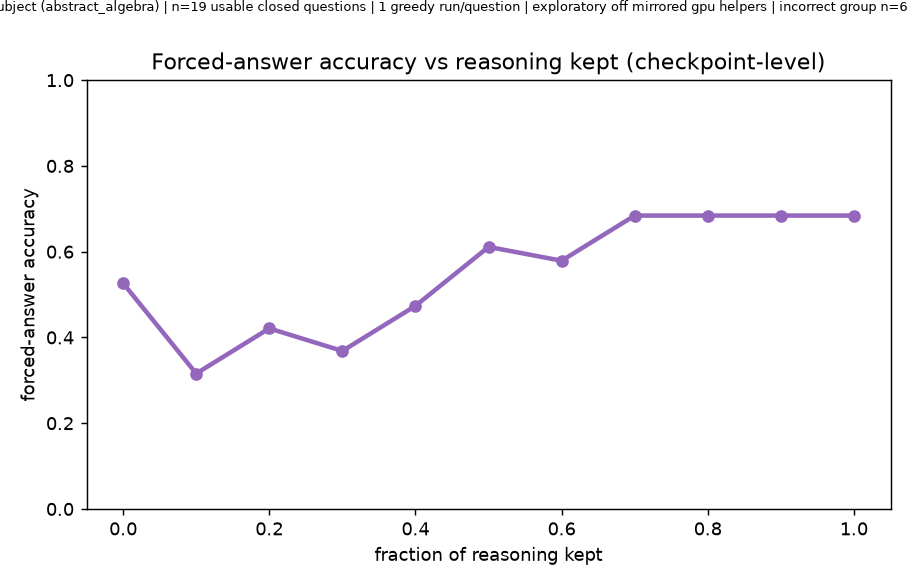
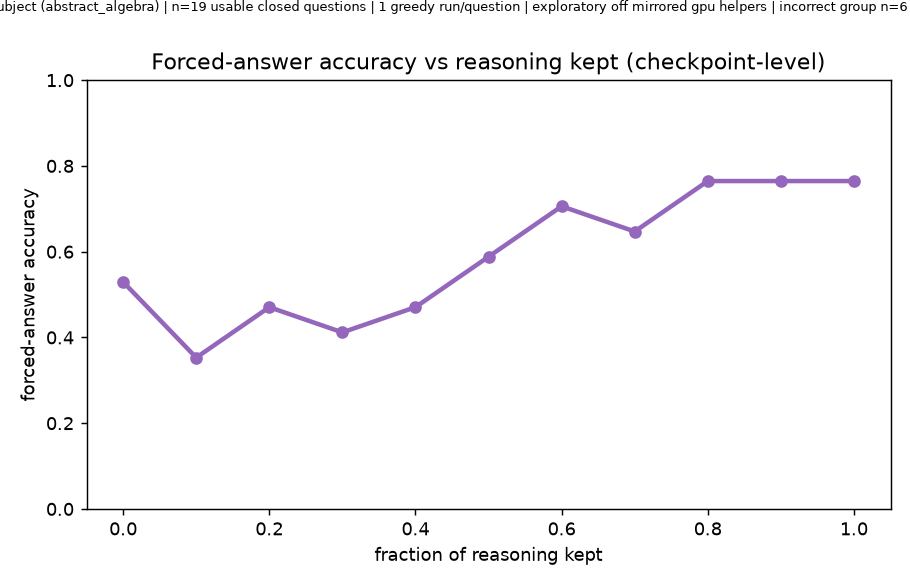
Regenerate analysis outputs under per-experiment dirs; add jobs/analyze.sh
Verification CPU job (10130512) reran both analysis scripts against the
moved results: outputs land in analysis/20q/ and analysis/200q/ with
suffix-free names, findings regenerate with identical numbers and
corrected internal file references. 200q figures/tables reproduced
byte-identical; 20q figures/CSVs refreshed from the same input JSONL.
jobs/analyze.sh makes the analysis step a proper task/job pair.

Changed region(s): [[0.4615, 0.2769, 0.9538, 0.5231], [0.1538, 0.5231, 0.4615, 0.6462], [0.1231, 0.4923, 0.1538, 0.5231]]

diff --git a/analysis/20q/FINDINGS.md b/analysis/20q/FINDINGS.md
@@ -13,7 +13,7 @@
 - 220 rows = 20 questions × 11 deciles. Closed cohort = **19 questions** (209 rows).
 - **qid14** (unclosed, `think_closed=False`) is held out and never averaged in.
 - Question-level groups use **final-checkpoint (frac=1.0) correctness** (`forced_letter==gold`),
-  not `natural_pred==gold`: **13 correct / 6 incorrect**.
+  not `natural_pred==gold`: **13 correct / 4 incorrect**.
 
 ## 1. Whole-cohort trajectories (basic)
 As more reasoning is spliced in, the forced answer's letter-entropy collapses and verbalized
@@ -21,25 +21,25 @@ confidence drifts up:
 
 | | frac 0.0 (no reasoning) | frac 1.0 (full chain) |
 |---|---|---|
-| mean answer-letter entropy (nats) | 1.129 | 0.038 |
-| mean verbalized confidence | 88.2 | 93.9 |
-| forced-answer accuracy | 0.53 | 0.68 |
+| mean answer-letter entropy (nats) | 1.142 | 0.054 |
+| mean verbalized confidence | 88.8 | 95.6 |
+| forced-answer accuracy | 0.53 | 0.76 |
 
 See `fig_entropy_vs_frac.png`, `fig_confidence_vs_frac.png`, `fig_accuracy_vs_frac.png`.
 
 **Two wrinkles, both honest gaps not bugs:**
-- Accuracy is **non-monotonic**: it dips to **0.32 at frac 0.1** before
-  recovering to 0.68 — a *little* reasoning underperforms *none* here. Intriguing (echoes
+- Accuracy is **non-monotonic**: it dips to **0.35 at frac 0.1** before
+  recovering to 0.76 — a *little* reasoning underperforms *none* here. Intriguing (echoes
   "partial chain-of-thought can hurt") but well within n=19 noise; flagged, not claimed.
-- **1 checkpoint** (qid15 @ frac 0.5) produced no clean answer token, so its
+- **0 checkpoint** (qid15 @ frac 0.5) produced no clean answer token, so its
   entropy is left as a visible `NaN` rather than guessed; that one cell's mean is over 18, not 19.
 
 ## 2. HEADLINE — convergence *timing*, not entropy *level*
 Splitting by final correctness, the correct group's entropy collapses **earlier**. The gap
 (incorrect − correct mean entropy) **opens mid-chain and vanishes at the endpoint**:
 
-- gap peaks at **frac 0.8** (**0.502 nats**),
-- endpoint gap (frac 1.0) = **-0.010 nats** (H_correct=0.041, H_incorrect=0.031) — effectively converged.
+- gap peaks at **frac 0.8** (**0.676 nats**),
+- endpoint gap (frac 1.0) = **-0.045 nats** (H_correct=0.064, H_incorrect=0.019) — effectively converged.
 
 **This is not "lower entropy ⇒ correct."** At the endpoint both groups are equally (near-zero)
 entropy; the signal is *how soon* they get there. See `fig_entropy_by_correctness_frac.png`
@@ -52,14 +52,14 @@ not hold** — the groups are length-balanced:
 
 | group | mean n_think | median n_think |
 |---|---|---|
-| correct (n=13) | 1572 | 1595 |
-| incorrect (n=6) | 1595 | 1228 |
+| correct (n=13) | 1613 | 1424 |
+| incorrect (n=4) | 1250 | 887 |
 
 Means are within ~1.5%, and the **median runs the *opposite* way** (correct chains are if
 anything *longer*). So there is little length confound to begin with. The decisive check is
 re-plotting entropy against absolute `k_keep` (`fig_entropy_by_correctness_abs.png`):
 
-> **survives: correct group shows lower mean entropy in 8/8 overlapping absolute-position bins.**
+> **survives: correct group shows lower mean entropy in 7/7 overlapping absolute-position bins.**
 
 Since the separation holds at *matched absolute token positions*, the earlier-convergence effect
 in §2 is **not** a chain-length artifact. (Caveat: the correct group has few points in the
@@ -68,15 +68,15 @@ highest-k bins — short-and-medium chains dominate — so the very-high-k tail 
 ## 4. Answer lock-in / flips
 Earliest fraction after which the forced letter equals its final value and never changes again:
 
-- mean commit fraction: **correct 0.32** vs **incorrect 0.45**
-- mean answer flips along the chain: **correct 2.15** vs **incorrect 2.67**
+- mean commit fraction: **correct 0.35** vs **incorrect 0.68**
+- mean answer flips along the chain: **correct 1.46** vs **incorrect 2.75**
 
 (Consistent direction with §2 if correct questions commit earlier / flip less.) See
 `per_question_summary.csv`.
 
 ## 5. Calibration of the two uncertainty signals
 Token entropy vs verbalized confidence across all closed checkpoints:
-**Pearson r = -0.381, Spearman ρ = -0.305** (negative = the two signals agree:
+**Pearson r = -0.521, Spearman ρ = -0.476** (negative = the two signals agree:
 higher stated confidence ↔ lower entropy). See `fig_calibration.png`.
 
 ## Held-out: qid14, and the qid15 gap (kept visible, never silently dropped)
@@ -91,4 +91,4 @@ higher stated confidence ↔ lower entropy). See `fig_calibration.png`.
   symbol, so qid15's flip tally is mildly inflated.
 
 ---
-*Generated by `analysis/analyze_checkpoints.py` from `results/checkpoints_20q.jsonl`.*
+*Generated by `analysis/analyze_checkpoints.py` from `results/20q/checkpoints.jsonl`.*

diff --git a/analysis/200q/FINDINGS.md b/analysis/200q/FINDINGS.md
@@ -6,12 +6,12 @@
 - **closed & answered: 150** (109 correct / 41 incorrect, acc=0.73)
 - truncated at 16k cap: 26 (runaway chains, forensics below)
 - skipped, model wrote NO reasoning (n_think=2): 24 — all long-passage
-  humanities/social subjects; see `tables/skipped_no_reasoning_200q.csv`
+  humanities/social subjects; see `tables/skipped_no_reasoning.csv`
 
 ## 1. Calibration (GK bullet 1+2 anchor)
 Stated confidence ~90 everywhere; actual accuracy 0.73. **ECE=0.18.**
-See `fig200q_calibration_curve.png`; the per-bin table is
-`tables/calibration_bins_200q.csv`.
+See `fig_calibration_curve.png`; the per-bin table is
+`tables/calibration_bins.csv`.
 
 ## 2. Which signal knows? (AUROC, higher = better ranks correct above incorrect)
 | signal | AUROC |
@@ -26,7 +26,7 @@ See `fig200q_calibration_curve.png`; the per-bin table is
 - think-token entropy ~ verbalized confidence: **-0.53**
 - think-token entropy ~ answer entropy (end): **0.01**
 - answer entropy (mid) ~ verbalized confidence: **-0.34**
-Full matrices: `tables/correlations_*_200q.csv`, heatmap figure.
+Full matrices: `tables/correlations_*.csv`, heatmap figure.
 
 ## 4. Timing replication (20q headline at n=150, 51 subjects)
 Gap (incorrect - correct mean answer entropy) peaks at frac 0.5
@@ -39,10 +39,10 @@ the 20q timing story.
 
 ## 5. Runaway chains (26 at the 16k cap)
 Mean fraction of final-1024 tokens with entropy < 0.05 nats: **1.00**
-(repetition-loop signature if high). Traces: `fig200q_runaway_traces.png`.
+(repetition-loop signature if high). Traces: `fig_runaway_traces.png`.
 
 ## 6. Outliers for manual inspection
-`OUTLIERS_200q.md` — top overconfident-wrong + signals-disagree galleries
+`OUTLIERS.md` — top overconfident-wrong + signals-disagree galleries
 with full question text.
 
 ---
